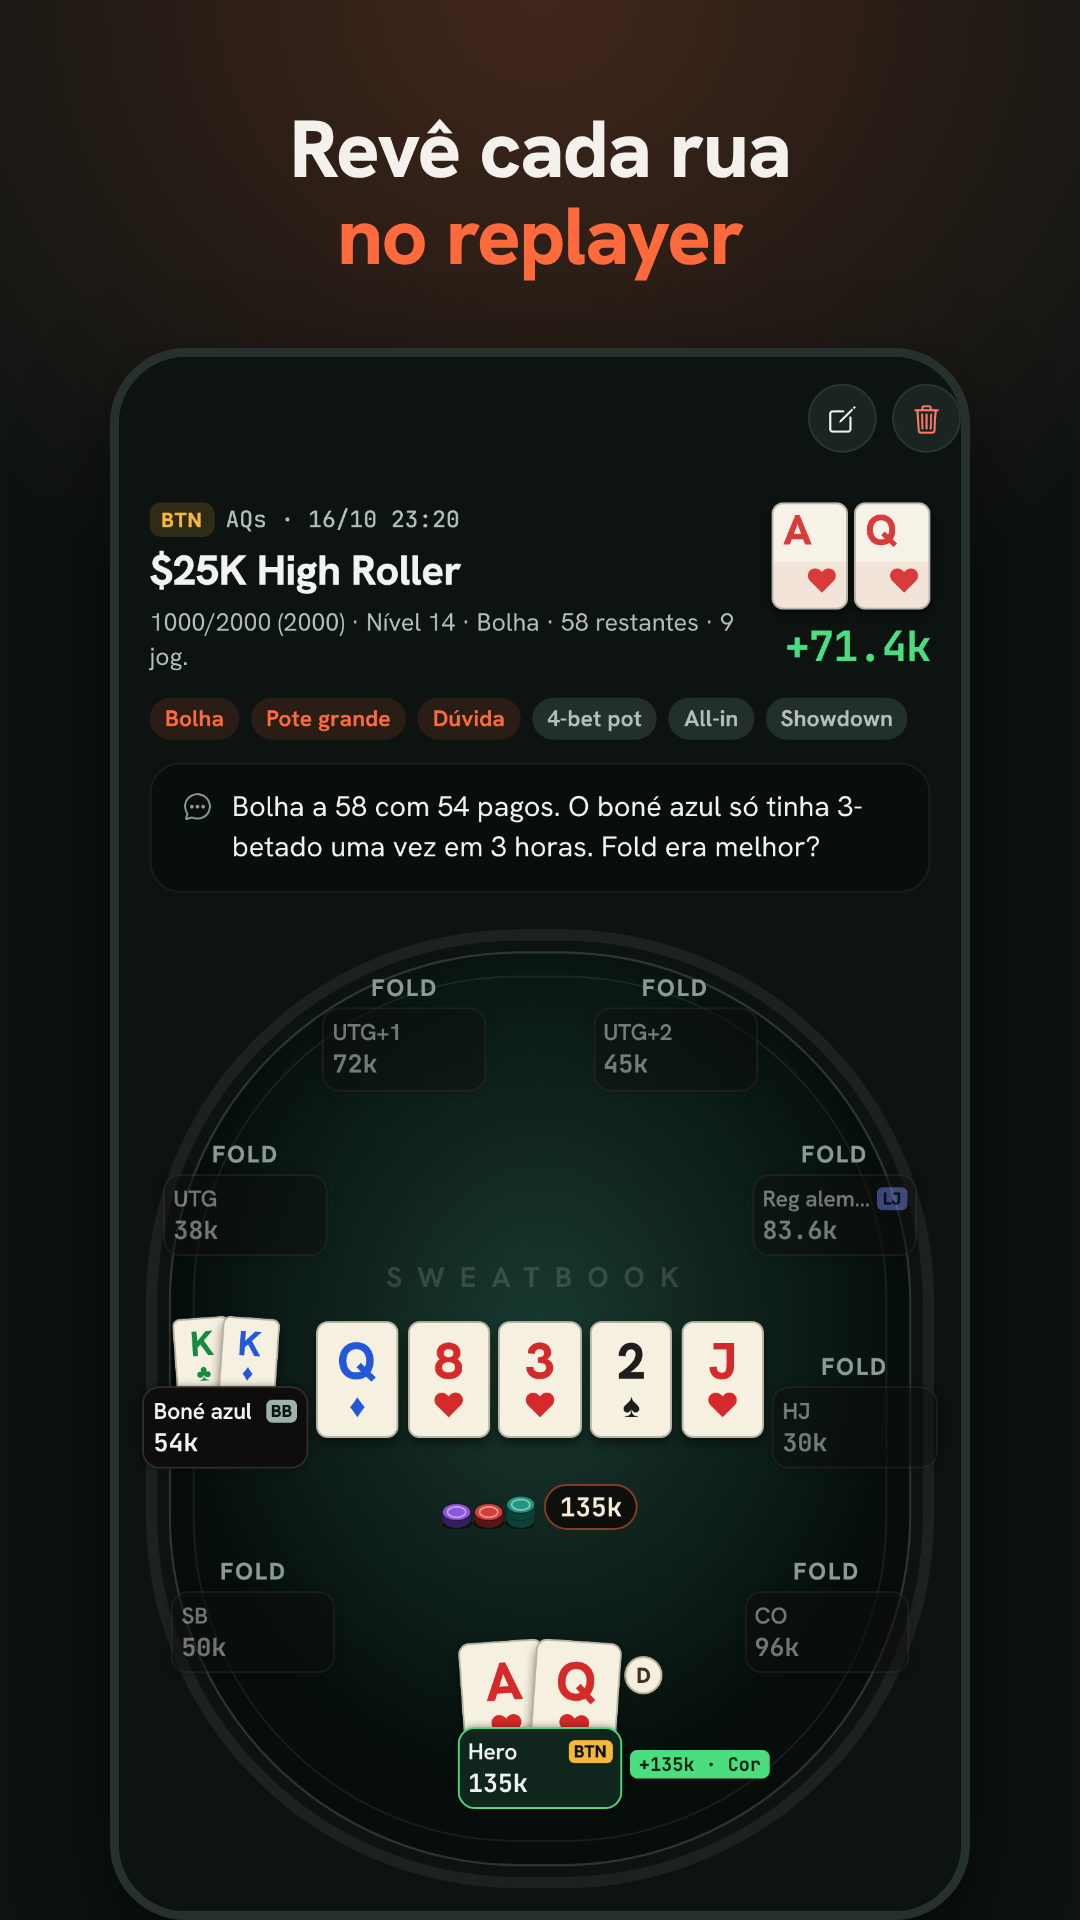
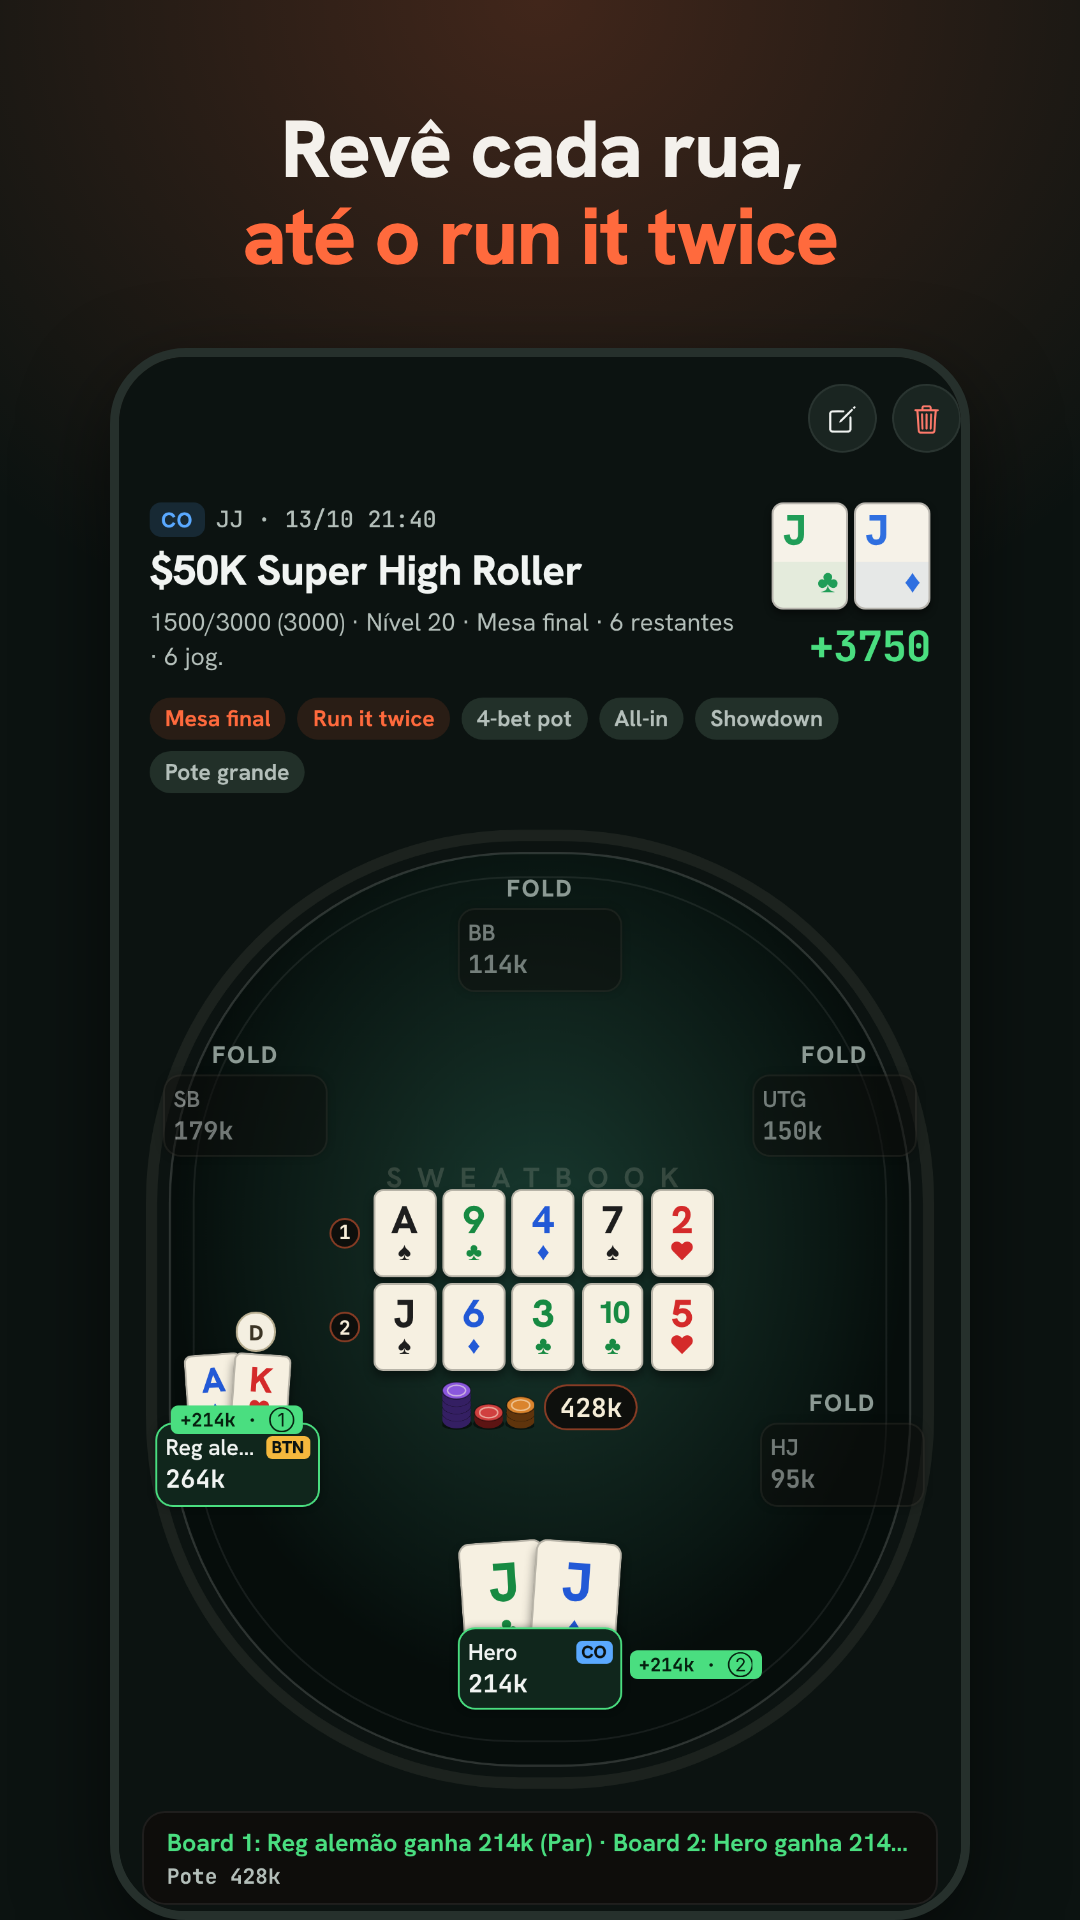
Store: re-render at 8eb59e3 with a run-it-twice replayer frame; privacy for coaching links and live-page venue/result delay
Claude-Session: https://claude.ai/code/session_0177dvFNXGEXkTvQzutfngpT

diff --git a/store/web/privacy.html b/store/web/privacy.html
@@ -25,9 +25,10 @@
 <tr><td>Hands, sessions, tournaments, tags and notes you enter</td><td>This is the app's core function</td><td>On your device. We only receive it if you turn on cloud backup (below).</td></tr>
 <tr><td>Cloud backup (optional, off until you turn it on): a copy of your hands, notes and the player names you typed, plus a hash of the secret part of your recovery code</td><td>So you can restore your hands on a new phone</td><td>Our backend (Supabase, EU region), end-to-end encrypted (AES-256-GCM) with a key derived from your recovery code that never leaves your phone, so we cannot read it. Not tied to any account, name or email</td></tr>
 <tr><td>Hands you choose to share (cards, actions, stacks, any title or text you add; opponents appear as positions unless you turn on names in Settings)</td><td>To show them to anyone who opens the share link</td><td>Our backend (Supabase, EU region), publicly readable by anyone with the link</td></tr>
-<tr><td>Live session pages for backers (only if you tap "Create live link" for a session): your nickname, tournament and venue, blinds and stage, stack, level, time played, entries, hands logged, % of action sold and result, plus a view count</td><td>So the people who back you can follow the session</td><td>Our backend, publicly readable by anyone with the link. No notes, hands or backer names. Turning it off in the app deletes the page; otherwise it is deleted automatically 30 days after its last update</td></tr>
+<tr><td>Live session pages for backers (only if you tap "Create live link" for a session): your nickname, tournament, the venue only if you turn on "Show the venue", blinds and stage, stack, level, time played, entries, hands logged, % of action sold and result, plus a view count</td><td>So the people who back you can follow the session</td><td>Our backend, publicly readable by anyone with the link. No notes, hands or backer names. When a session ends, the result stays off the public page for one hour. Turning it off in the app deletes the page; otherwise it is deleted automatically 30 days after its last update</td></tr>
 <tr><td>Public player profile (only if you create one in Settings → Public profile): the username you choose, a display name and short bio, and only the shared hands and finished sessions you tick (event, venue, date, hours, finish and field size, hands logged; buy-ins and results only if you turn "Hide amounts" off), your invite code, and a count of views (not who viewed)</td><td>So other players can see the hands and results you choose to show</td><td>Our backend, publicly readable by anyone with the link sweatbook.poker/u/&lt;username&gt; and not indexed by search engines. Your phone keeps a secret edit key; we store only a hash of it. You can edit or delete the profile at any time, and deleting is permanent (hands you shared stay on their own links until you delete them). Anyone can report a profile: a report stores only a daily-changing hash of the reporter's IP, three reports hide the profile for review, and a hidden profile is deleted after 30 days unless restored</td></tr>
 <tr><td>Swaps (only if you create one or accept one): both players' names as you each type them, the event, the % swapped, the prizes and the payments between you</td><td>So both players see the same swap and who owes whom</td><td>Our backend, visible only to the two players with the link. Either player can delete the swap at any time; a swap nobody confirmed is deleted after 30 days, and one with no activity for 400 days is deleted too</td></tr>
+<tr><td>Private coaching links (only if you send hands to a coach): the hands you pick (the same content as a shared hand), a title and your name, and the comments, marks (good, mistake, question) and display names you and your coach write, plus a view count</td><td>So your coach can replay the hands and comment, and you can read and answer</td><td>Our backend, reachable only through the secret link (never listed or indexed; we store only a hash of it). You can revoke the link at any time: the coach loses access at once and you keep the comments. Links revoked or expired more than 30 days ago are deleted with everything in them</td></tr>
 <tr><td>Comments and votes on shared hands (a display name the commenter types, the comment text, a random browser ID)</td><td>To let friends give feedback on a hand</td><td>Our backend; comments are public to anyone with the link</td></tr>
 <tr><td>Voice notes for Instagram stories (Pro, only when you tap record; up to 30 seconds) and the story image</td><td>To turn them into a story video</td><td>Sent to our server, processed in memory or temporary files and deleted as soon as the video is made. Not stored.</td></tr>
 <tr><td>Purchases (if you subscribe)</td><td>To unlock paid features</td><td>Processed by Apple or Google. Our subscription service, RevenueCat, receives the purchase receipt and a random app user ID (not your name or email) to tell the app whether Pro is active</td></tr>
@@ -82,9 +83,10 @@
 <tr><td>Mãos, sessões, torneios, tags e notas que introduzes</td><td>É a função principal da app</td><td>No teu dispositivo. Só os recebemos se ativares a cópia de segurança na nuvem (abaixo).</td></tr>
 <tr><td>Cópia de segurança na nuvem (opcional, desligada até a ativares): cópia das tuas mãos, notas e nomes de jogadores que escreveste, mais um hash da parte secreta do teu código de recuperação</td><td>Para recuperares as tuas mãos num telemóvel novo</td><td>No nosso backend (Supabase, região UE), cifrada ponta a ponta (AES-256-GCM) com uma chave derivada do teu código de recuperação que nunca sai do telemóvel, por isso não a conseguimos ler. Sem ligação a conta, nome ou email</td></tr>
 <tr><td>Mãos que decides partilhar (cartas, ações, stacks, título ou texto que acrescentes; os adversários aparecem como posições, a não ser que ligues os nomes nas Definições)</td><td>Para as mostrar a quem abrir o link</td><td>No nosso backend (Supabase, região UE), visíveis a qualquer pessoa com o link</td></tr>
-<tr><td>Página da sessão para quem te faz staking (só se tocares em "Criar link em direto" numa sessão): a tua alcunha, torneio e casino, blinds e fase, stack, nível, tempo de jogo, entradas, mãos registadas, % de ação vendida e resultado, mais um contador de visitas</td><td>Para quem te apoia acompanhar a sessão</td><td>No nosso backend, visível a qualquer pessoa com o link. Sem notas, mãos nem nomes de quem te apoia. Ao desligar na app a página é apagada; caso contrário é apagada automaticamente 30 dias após a última atualização</td></tr>
+<tr><td>Página da sessão para quem te faz staking (só se tocares em "Criar link em direto" numa sessão): a tua alcunha, torneio, o casino só se ligares "Mostrar a sala", blinds e fase, stack, nível, tempo de jogo, entradas, mãos registadas, % de ação vendida e resultado, mais um contador de visitas</td><td>Para quem te apoia acompanhar a sessão</td><td>No nosso backend, visível a qualquer pessoa com o link. Sem notas, mãos nem nomes de quem te apoia. Quando a sessão acaba, o resultado só aparece na página pública uma hora depois. Ao desligar na app a página é apagada; caso contrário é apagada automaticamente 30 dias após a última atualização</td></tr>
 <tr><td>Perfil público de jogador (só se o criares em Definições → Perfil público): o nome de utilizador que escolhes, um nome e uma bio curta, e só as mãos partilhadas e sessões terminadas que marcares (evento, casino, data, horas, posição final e número de jogadores, mãos registadas; buy-ins e resultados só se desligares "Esconder montantes"), o teu código de convite e um contador de visualizações (sem saber quem viu)</td><td>Para outros jogadores verem as mãos e os resultados que decides mostrar</td><td>No nosso backend, visível por quem tiver o link sweatbook.poker/u/&lt;nome&gt; e fora dos motores de pesquisa. O teu telemóvel guarda uma chave secreta de edição; nós só guardamos um hash dela. Podes editar ou apagar o perfil a qualquer momento, e apagar é definitivo (as mãos que partilhaste ficam nos seus próprios links até as apagares). Qualquer pessoa pode denunciar um perfil: a denúncia guarda só um hash do IP de quem denuncia que muda todos os dias, três denúncias escondem o perfil para revisão, e um perfil escondido é apagado ao fim de 30 dias se não for reposto</td></tr>
 <tr><td>Swaps (só se criares ou aceitares um): os nomes dos dois jogadores como cada um os escreve, o evento, a % trocada, os prémios e os pagamentos entre vocês</td><td>Para os dois jogadores verem o mesmo swap e quem deve a quem</td><td>No nosso backend, visível só para os dois jogadores com o link. Qualquer um pode apagar o swap a qualquer momento; um swap que ninguém confirmou é apagado ao fim de 30 dias e um sem atividade durante 400 dias também</td></tr>
+<tr><td>Links privados para o coach (só se enviares mãos a um coach): as mãos que escolhes (o mesmo conteúdo de uma mão partilhada), um título e o teu nome, e os comentários, marcas (bom, erro, dúvida) e nomes que tu e o coach escrevem, mais um contador de visualizações</td><td>Para o coach rever as mãos e comentar, e tu leres e responderes</td><td>No nosso backend, acessível só pelo link secreto (nunca listado nem indexado; guardamos só um hash dele). Podes revogar o link a qualquer momento: o coach perde o acesso de imediato e tu ficas com os comentários. Links revogados ou expirados há mais de 30 dias são apagados com tudo o que têm</td></tr>
 <tr><td>Comentários e votos em mãos partilhadas (nome escolhido por quem comenta, texto, ID aleatório do browser)</td><td>Para os amigos darem opinião sobre a mão</td><td>No nosso backend; os comentários são públicos para quem tem o link</td></tr>
 <tr><td>Notas de voz para Stories do Instagram (Pro, só quando tocas em gravar; até 30 segundos) e a imagem da story</td><td>Para as transformar num vídeo de story</td><td>Enviadas para o nosso servidor, tratadas em memória ou ficheiros temporários e apagadas assim que o vídeo fica pronto. Não são guardadas.</td></tr>
 <tr><td>Compras (se subscreveres)</td><td>Para desbloquear funcionalidades pagas</td><td>Processadas pela Apple ou pela Google. O nosso serviço de subscrições, a RevenueCat, recebe o recibo da compra e um ID aleatório da app (não o teu nome nem email) para indicar à app se o Pro está ativo</td></tr>

diff --git a/store/privacy-forms.md b/store/privacy-forms.md
@@ -10,7 +10,7 @@ Data not linked to you:
 
 | Category → type | Purpose |
 |---|---|
-| User Content → Other User Content (shared hands, comments, optional cloud backup of hands and notes, optional live session page for backers, optional public player profile with display name, bio and picked session cards, optional swaps between two players) | App Functionality |
+| User Content → Other User Content (shared hands, comments, optional cloud backup of hands and notes, optional live session page for backers, optional public player profile with display name, bio and picked session cards, optional swaps between two players, optional private coaching links with coach comments) | App Functionality |
 | User Content → Other User Content (optional cancellation feedback: reason + up to 120 characters) | Analytics |
 | Purchases → Purchase History (RevenueCat receives receipts) | App Functionality |
 | Identifiers → User ID (RevenueCat anonymous app user ID, random, not tied to identity) | App Functionality |
@@ -57,8 +57,8 @@ Privacy Policy URL: `https://{{WEB_DOMAIN}}/privacy`
 
 | Data type | Collected | Optional | Purpose |
 |---|---|---|---|
-| App activity → Other user-generated content (shared hands, comments, optional cloud backup, optional live session page for backers, optional public profile bio and session cards, optional swaps, optional cancellation feedback) | Yes | Yes (only when the user shares, comments, turns on backup, shares a session, makes a profile or types feedback) | App functionality, Analytics (feedback only) |
-| Personal info → Name (a nickname the user types: comment name, backer page nickname, profile display name and handle) | Yes | Yes | App functionality |
+| App activity → Other user-generated content (shared hands, comments, optional cloud backup, optional live session page for backers, optional public profile bio and session cards, optional swaps, optional coaching links and comments, optional cancellation feedback) | Yes | Yes (only when the user shares, comments, turns on backup, shares a session, makes a profile or types feedback) | App functionality, Analytics (feedback only) |
+| Personal info → Name (a nickname the user types: comment name, backer page nickname, profile display name and handle, coaching link names) | Yes | Yes | App functionality |
 | Financial info → Purchase history | Yes (RevenueCat) | Yes (only subscribers) | App functionality |
 | Device or other IDs | Yes (RevenueCat random app user ID; random install ID for usage events and invites) | No | App functionality, Analytics |
 | Audio → Voice or sound recordings | Yes (voice notes for story videos) | Yes | App functionality, **processed ephemerally: Yes** |

diff --git a/store/screenshots.md b/store/screenshots.md
@@ -37,7 +37,7 @@ npx expo export -p web && npx serve -s dist -l 4173 &   # in the app root
 cd store/screenshots && npm i playwright && node render.mjs http://localhost:4173 out
 ```
 
-`frames.json` holds the route and caption (PT and EN) of each frame, `seed.mjs` the demo hands, sessions and players. Output: `out/{ios,android}/{pt,en}/1..10.png` (10 frames: hand entry, replayer, story, hands list, session, bankroll, trip, players, backing, paywall). Apple takes up to 10; Google Play takes up to 8, so `final/android/` keeps only 1..8. The final set is committed in `store/screenshots/final/` (and mirrored in `/mnt/project-files/launch/screenshots/`): iPhone 6.9" 1320×2868 (Apple scales it to the smaller iPhones; no iPad set because `supportsTablet` is false), Play phone 1080×1920, Play feature graphic 1024×500, PT and EN. Upload order = file number.
+`frames.json` holds the route and caption (PT and EN) of each frame, `seed.mjs` the demo hands, sessions and players. Output: `out/{ios,android}/{pt,en}/1..10.png` (10 frames: hand entry, replayer (run it twice), story, hands list, session, bankroll, trip, players, backing, paywall). Apple takes up to 10; Google Play takes up to 8, so `final/android/` keeps only 1..8. The final set is committed in `store/screenshots/final/` (and mirrored in `/mnt/project-files/launch/screenshots/`): iPhone 6.9" 1320×2868 (Apple scales it to the smaller iPhones; no iPad set because `supportsTablet` is false), Play phone 1080×1920, Play feature graphic 1024×500, PT and EN. Upload order = file number.
 
 Frames: 1 hand entry, 2 replayer, 3 Instagram story share, 4 hand list with tags, 5 live session, 6 bankroll, 7 player notes.
 
